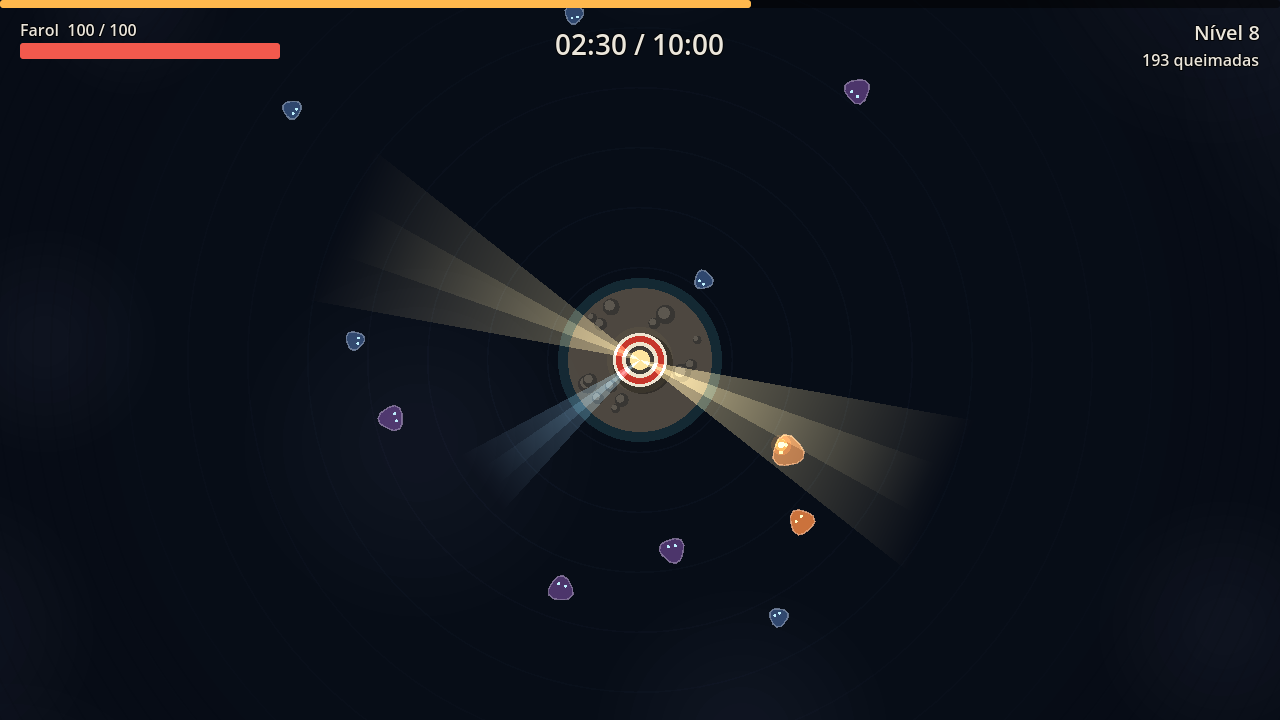
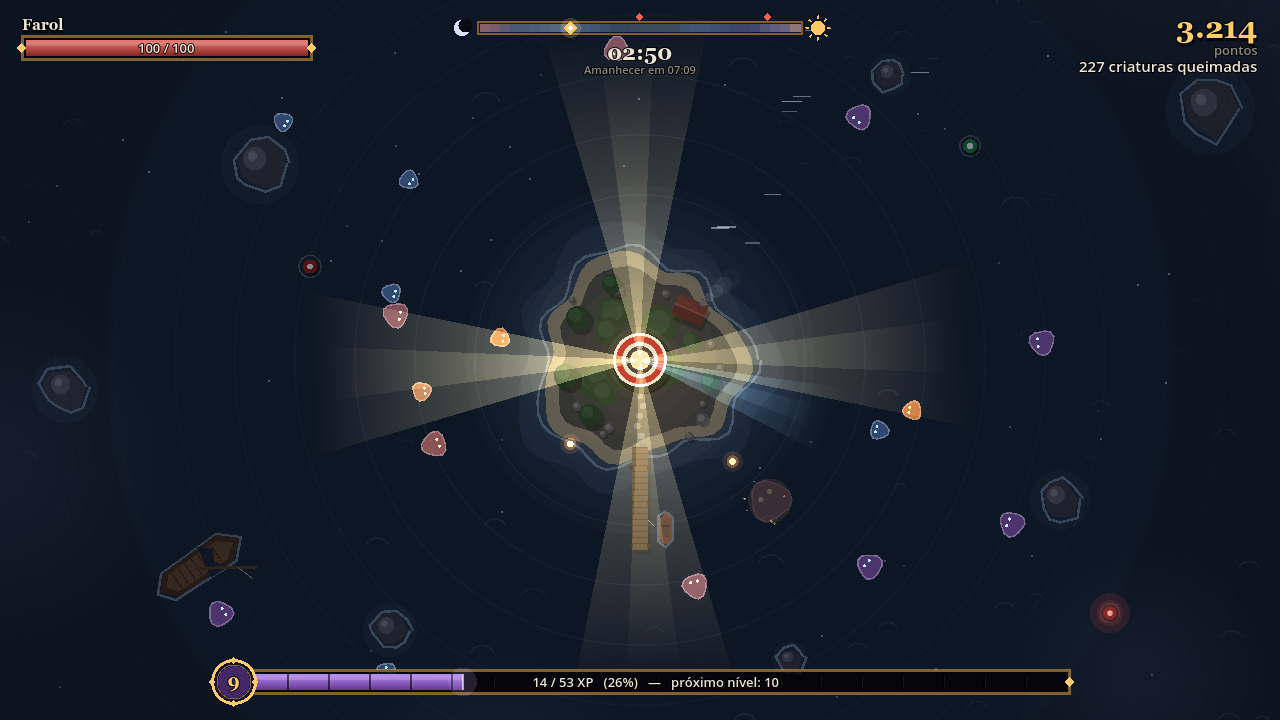
docs: atualiza design, README, Steam e skill para a v0.2

diff --git a/.claude/skills/fogkeeper-dev/SKILL.md b/.claude/skills/fogkeeper-dev/SKILL.md
@@ -12,35 +12,51 @@ Leia `references/game-design.md` antes de propor mecânicas novas e `references/
 ## Stack e estrutura
 
 - Godot **4.4** (renderer GL Compatibility, para rodar em PCs fracos e no Steam Deck), GDScript com tipagem estática.
-- Tudo é gerado por código: não há assets binários ainda. Visual vem de `_draw()`; UI é construída em `scripts/ui/hud.gd`.
+- Tudo é gerado por código: não há assets binários ainda. Visual vem de `_draw()`, sons são sintetizados em `scripts/audio/sfx.gd` e a UI é construída em código a partir de `UiTheme`.
 
 ```
 scenes/main.tscn          Cena única; raiz com scripts/core/main.gd
 scripts/core/
-  main.gd                 Estados da partida, XP, níveis, fim de jogo, autoplay
-  balance.gd              TODOS os números de balanceamento
+  main.gd                 Estados da partida, XP, níveis, pontuação, fim de jogo, autoplay
+  balance.gd              TODOS os números: inimigos, dificuldades, pontuação
   upgrades.gd             Catálogo de melhorias + apply()
-  game_input.gd           Ações de input registradas em runtime
-scripts/gameplay/         lighthouse, beam, enemy, ember, pulse_wave, spawner
-scripts/world/            background (mar e ilha), fog (névoa e vinheta)
-scripts/ui/hud.gd         HUD e todas as telas (título, pausa, nível, fim)
-tools/check.sh            Carrega o projeto em headless e falha se houver erro
+  game_input.gd           Ações de input registradas em runtime (jogo e menus)
+  settings.gd             Preferências (user://settings.cfg): idioma, gráficos, volumes
+  records.gd              Histórico e ranking local (user://records.json) + formatação
+  day_cycle.gd            Paleta de luz ao longo da partida (crepúsculo → amanhecer)
+  i18n.gd                 Traduções PT/EN/ES (chave = texto em português)
+scripts/audio/sfx.gd      Sons e música sintetizados numa thread; barramentos Music/SFX/Damage
+scripts/gameplay/         lighthouse, beam, enemy, ember, pulse_wave, spawner, burn_fx
+scripts/world/            background (mar, ilha, cenário), fog (névoa, chuva, gaivotas, vinheta)
+scripts/ui/
+  hud.gd                  HUD da partida e troca de telas
+  ui_theme.gd             Paleta, fontes, botões, divisores (identidade visual)
+  ornate_panel.gd, ornate_bar.gd, dawn_clock.gd, choice_card.gd, card_picker.gd, icons.gd
+  screens/                Uma tela por arquivo (título, dificuldade, nível, pausa, fim,
+                          configurações, histórico, ranking), todas herdando MenuScreen
+tools/check.sh            Carrega o projeto em headless, falha se houver erro, roda i18n_check
+tools/i18n_check.sh       Falha se algum texto traduzível não estiver em i18n.gd
 tools/autoplay.sh         Roda N partidas com bot e mostra a taxa de vitória
 ```
 
 ## Convenções
 
-- **Identificadores em inglês, textos do jogador em português.** Comentários e docstrings (`##`) em português. Quando chegar a hora de traduzir, os textos visíveis passam por `tr()`; ao criar texto novo, deixe-o fácil de extrair (strings literais, sem concatenação complexa).
+- **Identificadores em inglês, textos do jogador em português.** Comentários e docstrings (`##`) em português.
+- **Todo texto visível passa por tradução.** Use `tr("texto em português")` (ou `TranslationServer.translate` em função estática) com string literal e formate depois: `tr("Nível %d") % n`. Adicione a linha `"texto": ["inglês", "espanhol"]` em `I18n.TEXTS`; textos de dados (`name`/`desc` em Balance e Upgrades, `text` em DayCycle) também. `tools/i18n_check.sh` acusa o que faltar. Labels são criados com `auto_translate_mode` desligado (via `UiTheme.label`), então traduza explicitamente.
+- **UI usa `UiTheme`.** Cores, fontes, botões e painéis saem de `UiTheme`/`OrnatePanel`; não crie `StyleBoxFlat` solto nas telas. Telas novas herdam `MenuScreen`, montam o conteúdo em `_build()`, definem `default_focus` (navegação por teclado/controle) e tratam "voltar" em `go_back()`. Interações que pedem som chamam `Sfx.play(&"id")`.
+- **Visual segue o dia e a qualidade.** Cenário lê cores de `DayCycle.p` e detalhe de `Settings.quality` (0 baixa, 1 média, 2 alta). Efeitos puramente visuais usam `randf()` global, nunca o `rng` da partida, para não mudar a semente do autoplay.
 - **Um script por classe, com `class_name`.** Tipos explícitos em variáveis e retornos (`var x := 0.0`, `-> void`). Evite `Variant` solto exceto ao ler dicionários de dados.
 - **Números ficam em `balance.gd`.** Nenhum valor de jogo (vida, dano, velocidade, tempos) deve aparecer literal em outro script; isso mantém o balanceamento em um lugar e o autoplay confiável. Ajustes puramente visuais (cores de desenho, espessuras) podem ficar no script que desenha.
 - **O farol fica na origem.** O mundo é centrado em (0, 0); muita lógica usa `position.length()` e `position.angle()` como distância e ângulo até o farol. Não mova o farol nem a raiz `World`.
-- **Pausa:** `Main`, `Hud` e a câmera usam `PROCESS_MODE_ALWAYS`; tudo dentro de `World` é `PAUSABLE`. Coisas novas de gameplay vão dentro de `World`, coisas de interface dentro do `Hud`.
+- **Pausa:** `Main`, `Hud`, `Sfx` e a câmera usam `PROCESS_MODE_ALWAYS`; tudo dentro de `World` é `PAUSABLE`, exceto `Background` e `Fog`, que são só visuais e continuam animando nos menus. Coisas novas de gameplay vão dentro de `World`, coisas de interface dentro do `Hud`.
+- **Dificuldade é multiplicador.** `Balance.DIFFICULTIES` escala vida, dano, ritmo, XP e pontuação. "normal" fica todo em 1.0 porque é a referência do autoplay.
+- **Pontuação** vem só de `Balance.score_breakdown()`; o ranking ordena por pontos, depois nível, depois data. Mudou a fórmula? Atualize o texto de regras do ranking (ele é montado a partir das constantes).
 - **Colisão é matemática, não física.** O feixe testa ângulo e distância (`Beam.covers`). Mantenha assim enquanto o número de inimigos couber; só migre para áreas/física se o profiler pedir.
 
 ## Receitas
 
 **Novo inimigo**
-1. Adicione uma entrada em `Balance.ENEMIES` (`hp`, `speed`, `radius`, `damage`, `xp`, `color`; `"boss": true` para chefes).
+1. Adicione uma entrada em `Balance.ENEMIES` (`hp`, `speed`, `radius`, `damage`, `xp`, `score`, `color`; `"boss": true` para chefes).
 2. Inclua o tipo em `Balance.spawn_weights()` (a partir de que tempo e com que peso) ou em `BOSS_TIMES` para eventos.
 3. Se ele tiver comportamento próprio, prefira uma subclasse de `Enemy` sobrescrevendo `_process`/`_draw` e ajuste `Spawner.spawn()` para instanciá-la; não encha `enemy.gd` de `if kind ==`.
 4. Rode `tools/autoplay.sh 10` antes e depois e reporte a diferença.
@@ -49,6 +65,15 @@ tools/autoplay.sh         Roda N partidas com bot e mostra a taxa de vitória
 1. Entrada em `Upgrades.LIST` com `id`, `name`, `desc` (curta, no imperativo ou descritiva, cabendo em uma linha) e `max`.
 2. Caso correspondente em `Upgrades.apply()`. Se criar um novo atributo no farol, inicialize-o em `Lighthouse.reset()`.
 3. Melhorias que adicionam fontes de luz chamam `lh.rebuild_beams()`.
+4. Traduza `name` e `desc` em `I18n.TEXTS` e desenhe um ícone para o `id` em `Icons.draw()` (aparece na carta de escolha).
+
+**Nova tela de menu**
+1. Classe em `scripts/ui/screens/` herdando `MenuScreen`; monte tudo em `_build()` com `centered_panel()`, `title()`, `text()`, `add_button()`, `stat_row()`.
+2. Defina `default_focus` e, se a tela não puder ser fechada com Esc, sobrescreva `go_back()` retornando `false`.
+3. Adicione um `show_*()` em `Hud` e, para inspeção visual, um caso em `Main._open_debug_ui()`.
+
+**Novo som**
+Escreva uma função `_s_nome(t) -> float` em `Sfx` (amostra no tempo `t`, entre -1 e 1), registre em `_synthesize_all()` e toque com `Sfx.play(&"nome")`. Sons que podem disparar muitas vezes por segundo entram em `THROTTLE`. Som de dano usa o barramento `Damage` (volume próprio nas configurações).
 
 **Mudança de balanceamento**
 Mude só `balance.gd`, rode `tools/autoplay.sh 10` e mostre a taxa de vitória e o tempo médio de morte. Referência atual: o bot (mira no mais próximo, escolhas aleatórias) vence cerca de 4 em 10. Um bot vencendo quase sempre significa que o jogo ficou fácil para humanos; quase nunca, que ficou punitivo. O bot é só um termômetro: decisões finais vêm de playtest humano.
@@ -62,7 +87,16 @@ GODOT=/caminho/do/godot tools/check.sh
 GODOT=/caminho/do/godot tools/autoplay.sh 5
 ```
 
-Se não houver Godot no ambiente, baixe a versão 4.4.1 (release oficial em github.com/godotengine/godot) para rodar em headless. Para inspecionar o visual sem monitor: `xvfb-run -a godot --path . --audio-driver Dummy --fixed-fps 20 --quit-after 520 -- --autoplay --seed=2 --screenshot=25` salva `user://screenshot.png`.
+Se não houver Godot no ambiente, baixe a versão 4.4.1 (release oficial em github.com/godotengine/godot) para rodar em headless.
+
+Mudou algo visual? Gere capturas e olhe para elas (`user://screenshot.png`; no Windows, `%APPDATA%/Godot/app_userdata/Fogkeeper/`). Sem monitor, prefixe com `xvfb-run -a` e use `--audio-driver Dummy`:
+
+```bash
+godot --path . --resolution 1280x720 -- --ui=levelup --screenshot=3        # telas: difficulty, settings, history, ranking, pause, levelup, end (sem --ui = título)
+godot --path . --resolution 1280x720 --fixed-fps 20 -- --autoplay --seed=2 --cycle=320 --screenshot=45   # cenário numa hora do dia (320 = tempestade)
+```
+
+Com `--ui` ou `--cycle` o jogo fecha sozinho depois da captura, e partidas de `--ui` não entram no histórico. Para ver histórico/ranking com dados, grave um `records.json` de exemplo na pasta de dados do usuário e apague-o depois; nunca deixe dados falsos no histórico do jogador.
 
 ## Commits
 

diff --git a/.claude/skills/fogkeeper-dev/references/game-design.md b/.claude/skills/fogkeeper-dev/references/game-design.md
@@ -8,18 +8,28 @@ Você é um farol numa ilha cercada de névoa. Não pode se mover: só gira o fe
 2. **Imobilidade como identidade.** Nada de mover o farol. Mobilidade vem de luz: mais feixes, feixes automáticos, pulsos.
 3. **Legível no caos.** Inimigos escuros com contorno claro; tudo que é luz usa mistura aditiva e cores quentes; o jogador deve entender a tela em meio a centenas de inimigos.
 4. **Sessões curtas.** Uma partida dura no máximo 10 minutos.
+5. **A noite conta uma história.** A partida vai do crepúsculo ao amanhecer; o cenário muda junto e o relógio do topo mostra quanto falta.
 
-## Estado atual (v0.1)
+## Estado atual (v0.2)
 - Feixe principal controlado por mouse, teclado ou controle, com velocidade de giro limitada.
-- Inimigos: Névoa (básico), Corredor (rápido, a partir de 0:45), Colosso (resistente, a partir de 2:00), Leviatã (chefe aos 5:00 e 9:00).
-- Inimigos iluminados ficam mais lentos.
-- 10 melhorias + "Óleo fresco" quando tudo estiver no máximo.
-- Brasas somem após 14 s se não forem recolhidas.
+- Inimigos: Névoa (básico), Corredor (rápido, a partir de 0:45), Colosso (resistente, a partir de 2:00), Leviatã (chefe aos 5:00 e 9:00, com aviso e trompa).
+- Inimigos iluminados ficam mais lentos. Brasas somem após 14 s se não forem recolhidas.
+- 10 melhorias + "Óleo fresco" quando tudo estiver no máximo. Escolha em cartas com ícone, níveis e navegação por mouse, A/D, setas, 1-3, Enter ou controle.
+- Dificuldades Fácil, Normal e Difícil (multiplicadores em `Balance.DIFFICULTIES`; Normal é a referência).
+- Ciclo da noite: crepúsculo → noite de lua → tempestade (≈4:30–6:30, chuva e relâmpagos; o primeiro Leviatã chega no meio dela) → madrugada → amanhecer; na vitória o sol nasce e as criaturas se desfazem.
+- Cenário: ilha com casa do faroleiro, cais e barco, rochedos com espuma, naufrágio, boias piscando, reflexos da lua, gaivotas.
+- Áudio sintetizado em código: trilha ambiente, mar, queima, brasas, dano, pulso, chefe, trovão, menus.
+- Menus: título, dificuldade, configurações (idioma PT/EN/ES, qualidade, tela cheia, VSync, tremor, volumes geral/música/efeitos/dano), pausa, fim de partida.
+- Histórico de partidas com detalhes e ranking local com pontuação explicada.
+
+## Pontuação
+Criaturas queimadas (10 Névoa, 12 Corredor, 40 Colosso, 750 Leviatã) + 5 por segundo vivo + 5.000 pela vitória + até 2.000 pela vida restante ao amanhecer, tudo multiplicado pela dificuldade (×0,5 / ×1 / ×1,6). Empates: maior nível, depois quem fez primeiro.
 
 ## Próximos passos sugeridos (ordem de valor)
-1. **Feedback e "juice":** som (ambiente de mar, chiado de queima, sino de nível), partículas de brasa, tremor ao matar chefes. É o que mais aumenta a sensação de qualidade por hora de trabalho.
+1. **Playtest humano das dificuldades** e ajuste fino de Fácil/Difícil (o bot só mede o Normal).
 2. **Variedade de inimigos com mecânica:** um que se esconde da luz (recua e volta), um que se divide, um que apaga o feixe temporariamente ao morrer.
 3. **Sinergias entre melhorias** (estilo "evolução"): ex. Lente extra no máximo + Pulso → feixes disparam pulsos nas pontas.
 4. **Meta-progressão leve** entre partidas: moeda (pérolas) para desbloquear faroleiros com habilidades iniciais diferentes. Salvar com `ConfigFile` em `user://`.
-5. **Modo infinito** depois do amanhecer, para placar.
-6. **Arte final:** manter o estilo vetorial atual é uma opção legítima e barata; se trocar, preservar a leitura (contorno claro nos inimigos, luz aditiva).
+5. **Ranking online** via leaderboards da Steam (ver `docs/STEAM.md`), mantendo o local para jogo offline.
+6. **Modo infinito** depois do amanhecer, para placar.
+7. **Áudio e arte finais:** os sons sintetizados servem de base; trocar por gravações/composição melhora muito. Manter o estilo vetorial é uma opção legítima.

diff --git a/docs/GAME_DESIGN.md b/docs/GAME_DESIGN.md
@@ -8,18 +8,28 @@ Você é um farol numa ilha cercada de névoa. Não pode se mover: só gira o fe
 2. **Imobilidade como identidade.** Nada de mover o farol. Mobilidade vem de luz: mais feixes, feixes automáticos, pulsos.
 3. **Legível no caos.** Inimigos escuros com contorno claro; tudo que é luz usa mistura aditiva e cores quentes; o jogador deve entender a tela em meio a centenas de inimigos.
 4. **Sessões curtas.** Uma partida dura no máximo 10 minutos.
+5. **A noite conta uma história.** A partida vai do crepúsculo ao amanhecer; o cenário muda junto e o relógio do topo mostra quanto falta.
 
-## Estado atual (v0.1)
+## Estado atual (v0.2)
 - Feixe principal controlado por mouse, teclado ou controle, com velocidade de giro limitada.
-- Inimigos: Névoa (básico), Corredor (rápido, a partir de 0:45), Colosso (resistente, a partir de 2:00), Leviatã (chefe aos 5:00 e 9:00).
-- Inimigos iluminados ficam mais lentos.
-- 10 melhorias + "Óleo fresco" quando tudo estiver no máximo.
-- Brasas somem após 14 s se não forem recolhidas.
+- Inimigos: Névoa (básico), Corredor (rápido, a partir de 0:45), Colosso (resistente, a partir de 2:00), Leviatã (chefe aos 5:00 e 9:00, com aviso e trompa).
+- Inimigos iluminados ficam mais lentos. Brasas somem após 14 s se não forem recolhidas.
+- 10 melhorias + "Óleo fresco" quando tudo estiver no máximo. Escolha em cartas com ícone, níveis e navegação por mouse, A/D, setas, 1-3, Enter ou controle.
+- Dificuldades Fácil, Normal e Difícil (multiplicadores em `Balance.DIFFICULTIES`; Normal é a referência).
+- Ciclo da noite: crepúsculo → noite de lua → tempestade (≈4:30–6:30, chuva e relâmpagos; o primeiro Leviatã chega no meio dela) → madrugada → amanhecer; na vitória o sol nasce e as criaturas se desfazem.
+- Cenário: ilha com casa do faroleiro, cais e barco, rochedos com espuma, naufrágio, boias piscando, reflexos da lua, gaivotas.
+- Áudio sintetizado em código: trilha ambiente, mar, queima, brasas, dano, pulso, chefe, trovão, menus.
+- Menus: título, dificuldade, configurações (idioma PT/EN/ES, qualidade, tela cheia, VSync, tremor, volumes geral/música/efeitos/dano), pausa, fim de partida.
+- Histórico de partidas com detalhes e ranking local com pontuação explicada.
+
+## Pontuação
+Criaturas queimadas (10 Névoa, 12 Corredor, 40 Colosso, 750 Leviatã) + 5 por segundo vivo + 5.000 pela vitória + até 2.000 pela vida restante ao amanhecer, tudo multiplicado pela dificuldade (×0,5 / ×1 / ×1,6). Empates: maior nível, depois quem fez primeiro.
 
 ## Próximos passos sugeridos (ordem de valor)
-1. **Feedback e "juice":** som (ambiente de mar, chiado de queima, sino de nível), partículas de brasa, tremor ao matar chefes. É o que mais aumenta a sensação de qualidade por hora de trabalho.
+1. **Playtest humano das dificuldades** e ajuste fino de Fácil/Difícil (o bot só mede o Normal).
 2. **Variedade de inimigos com mecânica:** um que se esconde da luz (recua e volta), um que se divide, um que apaga o feixe temporariamente ao morrer.
 3. **Sinergias entre melhorias** (estilo "evolução"): ex. Lente extra no máximo + Pulso → feixes disparam pulsos nas pontas.
 4. **Meta-progressão leve** entre partidas: moeda (pérolas) para desbloquear faroleiros com habilidades iniciais diferentes. Salvar com `ConfigFile` em `user://`.
-5. **Modo infinito** depois do amanhecer, para placar.
-6. **Arte final:** manter o estilo vetorial atual é uma opção legítima e barata; se trocar, preservar a leitura (contorno claro nos inimigos, luz aditiva).
+5. **Ranking online** via leaderboards da Steam (ver `docs/STEAM.md`), mantendo o local para jogo offline.
+6. **Modo infinito** depois do amanhecer, para placar.
+7. **Áudio e arte finais:** os sons sintetizados servem de base; trocar por gravações/composição melhora muito. Manter o estilo vetorial é uma opção legítima.

diff --git a/README.md b/README.md
@@ -1,8 +1,10 @@
 # Fogkeeper
 
-Um farol fixo numa ilha cercada de névoa. Gire o feixe, queime as criaturas e resista até o amanhecer.
+Um farol fixo numa ilha cercada de névoa. Gire o feixe, queime as criaturas e resista do crepúsculo até o amanhecer.
 
-Survivors-like feito em **Godot 4.4** (GDScript), com todo o visual gerado por código.
+Survivors-like feito em **Godot 4.4** (GDScript). Visual, interface e sons são todos gerados por código; ainda não há arquivos de arte ou áudio.
+
+![Fogkeeper](docs/screenshot.png)
 
 ## Como rodar
 1. Instale o [Godot 4.4](https://godotengine.org/download) (versão padrão, não a .NET).
@@ -13,18 +15,29 @@ Survivors-like feito em **Godot 4.4** (GDScript), com todo o visual gerado por c
 | Ação | Teclado/mouse | Controle |
 |---|---|---|
 | Girar o feixe | Mouse, A/D, setas ou Q/E | Analógico direito (mira) ou esquerdo (gira) |
-| Escolher melhoria | 1, 2, 3 ou clique | D-pad + A |
-| Pausar | Esc ou P | Start |
+| Navegar nas cartas (melhoria, dificuldade) | A/D, ←/→ ou mouse | D-pad |
+| Escolher | Enter, Espaço, 1-3 ou clique | A |
+| Navegar nos menus | Setas, Tab ou mouse | D-pad + A |
+| Pausar / voltar | Esc ou P | Start / B |
+
+## O que tem no jogo
+- Dificuldades Fácil, Normal e Difícil.
+- Uma noite em 10 minutos: crepúsculo, lua, tempestade, madrugada e amanhecer.
+- Configurações de idioma (português, inglês, espanhol), gráficos e volumes separados para música, efeitos e som de dano.
+- Histórico de partidas com detalhes e ranking local com a regra de pontuação na própria tela.
+
+Preferências e histórico ficam na pasta de dados do Godot (`%APPDATA%/Godot/app_userdata/Fogkeeper/` no Windows).
 
 ## Ferramentas
 ```bash
-GODOT=/caminho/do/godot tools/check.sh        # carrega o projeto e acusa erros de script
-GODOT=/caminho/do/godot tools/autoplay.sh 10  # 10 partidas com bot, mostra taxa de vitória
+GODOT=/caminho/do/godot tools/check.sh        # carrega o projeto, acusa erros e textos sem tradução
+GODOT=/caminho/do/godot tools/autoplay.sh 10  # 10 partidas com bot (Normal), mostra taxa de vitória
+godot --path . -- --ui=levelup --screenshot=3 # abre uma tela e salva user://screenshot.png
 ```
-O bot mira no inimigo mais próximo e escolhe melhorias ao acaso; serve como termômetro de balanceamento.
+O bot mira no inimigo mais próximo e escolhe melhorias ao acaso; serve como termômetro de balanceamento. Outras opções de linha de comando estão no topo de `scripts/core/main.gd`.
 
 ## Documentação
-- `docs/GAME_DESIGN.md`: pilares, estado atual e próximos passos.
+- `docs/GAME_DESIGN.md`: pilares, estado atual, pontuação e próximos passos.
 - `docs/STEAM.md`: roteiro de publicação.
 - `.claude/skills/fogkeeper-dev/`: skill com as orientações do projeto para o Claude (Claude Code carrega automaticamente).
 

diff --git a/.claude/skills/fogkeeper-dev/references/steam-release.md b/.claude/skills/fogkeeper-dev/references/steam-release.md
@@ -15,7 +15,8 @@ Confirme valores e regras no Steamworks antes de agir: estas notas refletem o co
 - Use **GodotSteam** (addon GDExtension, ou a build pré-compilada do editor). Crie um autoload `SteamService` que inicializa a Steam e falha de forma silenciosa quando o jogo roda fora da Steam (dev, autoplay, CI). Nunca deixe o jogo depender da Steam para iniciar.
 - Durante o desenvolvimento, use o app id de teste 480 (Spacewar); troque pelo seu app id antes de enviar builds.
 - Conquistas sugeridas: primeira vitória, derrotar o Leviatã, vencer sem Paredes reforçadas, 5.000 criaturas queimadas no total.
-- Steam Cloud para o save de meta-progressão (um arquivo em `user://`).
+- Steam Cloud para `user://settings.cfg`, `user://records.json` e o futuro save de meta-progressão.
+- Leaderboards: uma por dificuldade (`fogkeeper_easy`, `_normal`, `_hard`), enviando `score` ao fim de cada partida em `Main._end_run()`. A pontuação já é calculada só em `Balance.score_breakdown()`, então basta enviar o total; o ranking local continua para jogo offline.
 
 ## Builds
 - Exportar Windows e Linux (Linux ajuda no Steam Deck). Templates de exportação da mesma versão do editor (4.4.1).

diff --git a/docs/STEAM.md b/docs/STEAM.md
@@ -15,7 +15,8 @@ Confirme valores e regras no Steamworks antes de agir: estas notas refletem o co
 - Use **GodotSteam** (addon GDExtension, ou a build pré-compilada do editor). Crie um autoload `SteamService` que inicializa a Steam e falha de forma silenciosa quando o jogo roda fora da Steam (dev, autoplay, CI). Nunca deixe o jogo depender da Steam para iniciar.
 - Durante o desenvolvimento, use o app id de teste 480 (Spacewar); troque pelo seu app id antes de enviar builds.
 - Conquistas sugeridas: primeira vitória, derrotar o Leviatã, vencer sem Paredes reforçadas, 5.000 criaturas queimadas no total.
-- Steam Cloud para o save de meta-progressão (um arquivo em `user://`).
+- Steam Cloud para `user://settings.cfg`, `user://records.json` e o futuro save de meta-progressão.
+- Leaderboards: uma por dificuldade (`fogkeeper_easy`, `_normal`, `_hard`), enviando `score` ao fim de cada partida em `Main._end_run()`. A pontuação já é calculada só em `Balance.score_breakdown()`, então basta enviar o total; o ranking local continua para jogo offline.
 
 ## Builds
 - Exportar Windows e Linux (Linux ajuda no Steam Deck). Templates de exportação da mesma versão do editor (4.4.1).
